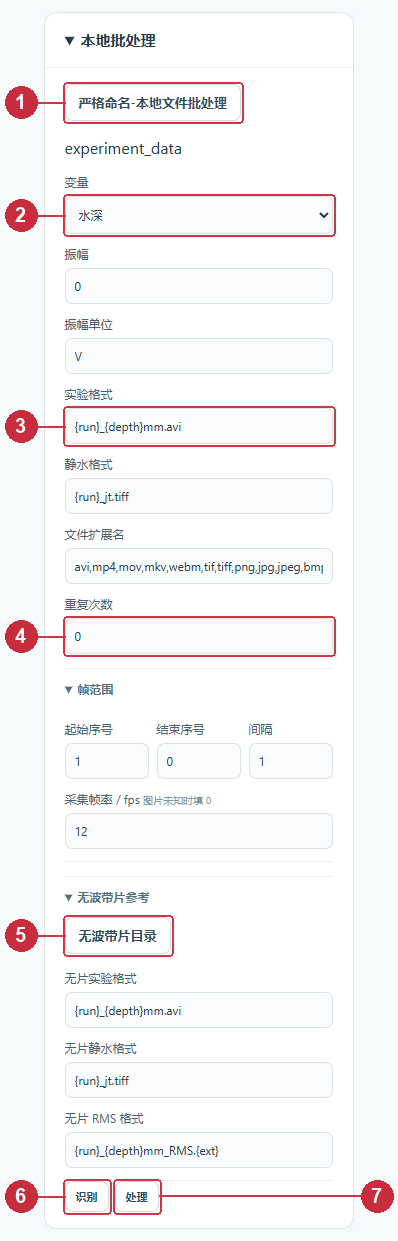
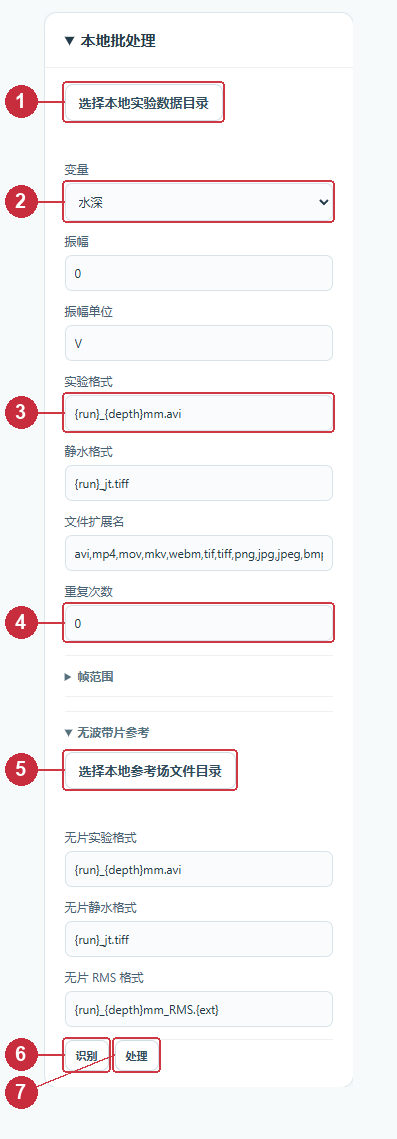
Rename local directories and add unlink controls

diff --git a/src/water-wave/advanced.js b/src/water-wave/advanced.js
@@ -11,13 +11,13 @@
     const label=document.createElement('label');label.className='export-item';label.innerHTML=`<input type="checkbox" data-export="${id}" ${['rms_npz','focal_line','focal_area'].includes(id)?'checked':''}><span>${title}</span>`;document.querySelector('.export-grid').append(label);
   }
   const batchPanel=document.createElement('section');batchPanel.className='panel';
-  batchPanel.innerHTML=`<h2>本地批处理</h2><button id="batch-directory">严格命名-本地文件批处理</button><p id="batch-root-name"></p>
+  batchPanel.innerHTML=`<h2>本地批处理</h2><button id="batch-directory">选择本地实验数据目录</button><div class="directory-row" id="batch-root-row"><span id="batch-root-name"></span><button type="button" class="directory-clear" id="batch-root-clear" aria-label="解除实验数据目录" title="解除关联" hidden>×</button></div>
     <label>变量<select id="batch-variable"><option value="depth">水深</option><option value="freq">频率</option><option value="amp">振幅</option></select></label>
     ${input('batch-amp','振幅',0)}${input('batch-unit','振幅单位','V','text')}
     ${input('batch-format','实验格式','{run}_{depth}mm.avi','text')}${input('static-format','静水格式','{run}_jt.tiff','text')}
     ${input('batch-extensions','文件扩展名','avi,mp4,mov,mkv,webm,tif,tiff,png,jpg,jpeg,bmp,mat,npz','text')}
     ${input('batch-repeats','重复次数',0)}<div class="three">${input('batch-start','起始序号',1)}${input('batch-end','结束序号',0)}${input('batch-stride','间隔',1)}</div>
-    <button id="reference-directory">无波带片目录</button><p id="reference-root-name"></p>
+    <button id="reference-directory">选择本地参考场文件目录</button><div class="directory-row" id="reference-root-row"><span id="reference-root-name"></span><button type="button" class="directory-clear" id="reference-root-clear" aria-label="解除参考场文件目录" title="解除关联" hidden>×</button></div>
     ${input('reference-format','无片实验格式','{run}_{depth}mm.avi','text')}${input('reference-static-format','无片静水格式','{run}_jt.tiff','text')}${input('reference-rms-format','无片 RMS 格式','{run}_{depth}mm_RMS.{ext}','text')}
     <div class="mini-actions"><button id="batch-scan">识别</button><button id="batch-run">处理</button></div><div id="batch-list"></div><p id="repeat-notice" role="status" hidden></p>`;
   document.querySelector('aside').append(batchPanel);
@@ -57,8 +57,13 @@
   $('raw-reference-files').onchange=e=>{rawFiles=[...e.target.files];};
   $('raw-reference-folder').onchange=e=>{rawFiles=[...e.target.files];const refs=rawFiles.filter(f=>refPattern.test(f.name));if(refs.length===1)rawStatic=refs[0];};
   async function directory(){if(!window.showDirectoryPicker)throw Error('当前浏览器不支持本地目录读写');return window.showDirectoryPicker({mode:'readwrite'});}
-  $('batch-directory').onclick=catchAction(async()=>{root=await directory();$('batch-root-name').textContent=root.name;});
-  $('reference-directory').onclick=catchAction(async()=>{referenceRoot=await directory();$('reference-root-name').textContent=referenceRoot.name;});
+  function showDirectory(nameId,name){$(nameId).textContent=name;$(nameId.replace('-name','-clear')).hidden=!name;}
+  function clearExperimentDirectory(){root=null;tasks=[];$('batch-list').replaceChildren();showDirectory('batch-root-name','');status('已解除实验数据目录关联。');}
+  function clearReferenceDirectory(){referenceRoot=null;referenceTasks=[];$('reference-root-name').textContent='';$('reference-root-clear').hidden=true;status('已解除参考场文件目录关联。');}
+  $('batch-directory').onclick=catchAction(async()=>{root=await directory();showDirectory('batch-root-name',root.name);});
+  $('reference-directory').onclick=catchAction(async()=>{referenceRoot=await directory();showDirectory('reference-root-name',referenceRoot.name);});
+  $('batch-root-clear').onclick=clearExperimentDirectory;
+  $('reference-root-clear').onclick=clearReferenceDirectory;
   async function scan(dir,prefix=''){const found=[];for await(const [name,handle] of dir.entries()){if(name==='results'||name.startsWith('.'))continue;const path=prefix+name;if(handle.kind==='directory')found.push(...await scan(handle,path+'/'));else found.push({path,handle});}return found;}
   function batchOptions(){return {extensions:$('batch-extensions').value,defaults:{depth:Number($('water_depth_mm').value),freq:Number($('frequency_hz').value),amp:Number($('batch-amp').value)},amplitudeUnit:$('batch-unit').value};}
   function listTasks(){const list=$('batch-list');list.replaceChildren();for(const t of tasks){const row=document.createElement('div');row.textContent=t.entries[0].path+' · '+(t.errors.join('；')||'就绪');list.append(row);}}

diff --git a/src/water-wave/style.css b/src/water-wave/style.css
@@ -16,6 +16,7 @@
 .module-body .section-head{justify-content:flex-end}.module-body>.two:first-child label{margin-top:0}
 .option-group>summary{font-size:12px;font-weight:600}.option-group[open]>summary{margin-bottom:12px}
 .option-group .two{margin-top:8px}.option-group .file-button{margin-top:8px!important}
+.directory-row{display:flex;align-items:center;gap:8px;min-height:22px;margin-top:6px;color:var(--muted);font-size:11px;overflow-wrap:anywhere}.directory-row span{flex:1;min-width:0}.directory-clear{display:inline-grid;place-items:center;flex:0 0 22px;width:22px;height:22px;padding:0;border:0;border-radius:50%;font-size:18px;line-height:1;color:#78909d;background:#edf3f5}.directory-clear:hover{color:#a62c38;background:#fdecee;border-color:transparent}
 #source-options .import-grid:has(>label[hidden]){grid-template-columns:1fr}
 .output-options{flex-wrap:wrap;gap:16px;align-items:flex-start}.output-options>label{flex:1 1 140px;max-width:260px}
 #color-sample{height:9px;margin-top:7px;border-radius:3px}

diff --git a/src/water-wave/layout.js b/src/water-wave/layout.js
@@ -24,7 +24,7 @@
   module(recovery,'恢复与 RMS','recovery-options');
   const batchFrame=group('帧范围',[$('batch-start').parentElement.parentElement]);
   $('batch-repeats').closest('label').after(batchFrame);
-  const batchReference=group('无波带片参考',[$('reference-directory'),$('reference-root-name'),...['reference-format','reference-static-format','reference-rms-format'].map(id=>$(id).closest('label'))],'batch-reference-options');
+  const batchReference=group('无波带片参考',[$('reference-directory'),$('reference-root-row'),...['reference-format','reference-static-format','reference-rms-format'].map(id=>$(id).closest('label'))],'batch-reference-options');
   batch.querySelector('.mini-actions').before(batchReference);
   const batchFold=module(batch,'本地批处理','batch-options');
   const frameRange=group('帧范围',[$('start').parentElement.parentElement,$('frame-list').closest('label')],'frame-options');
